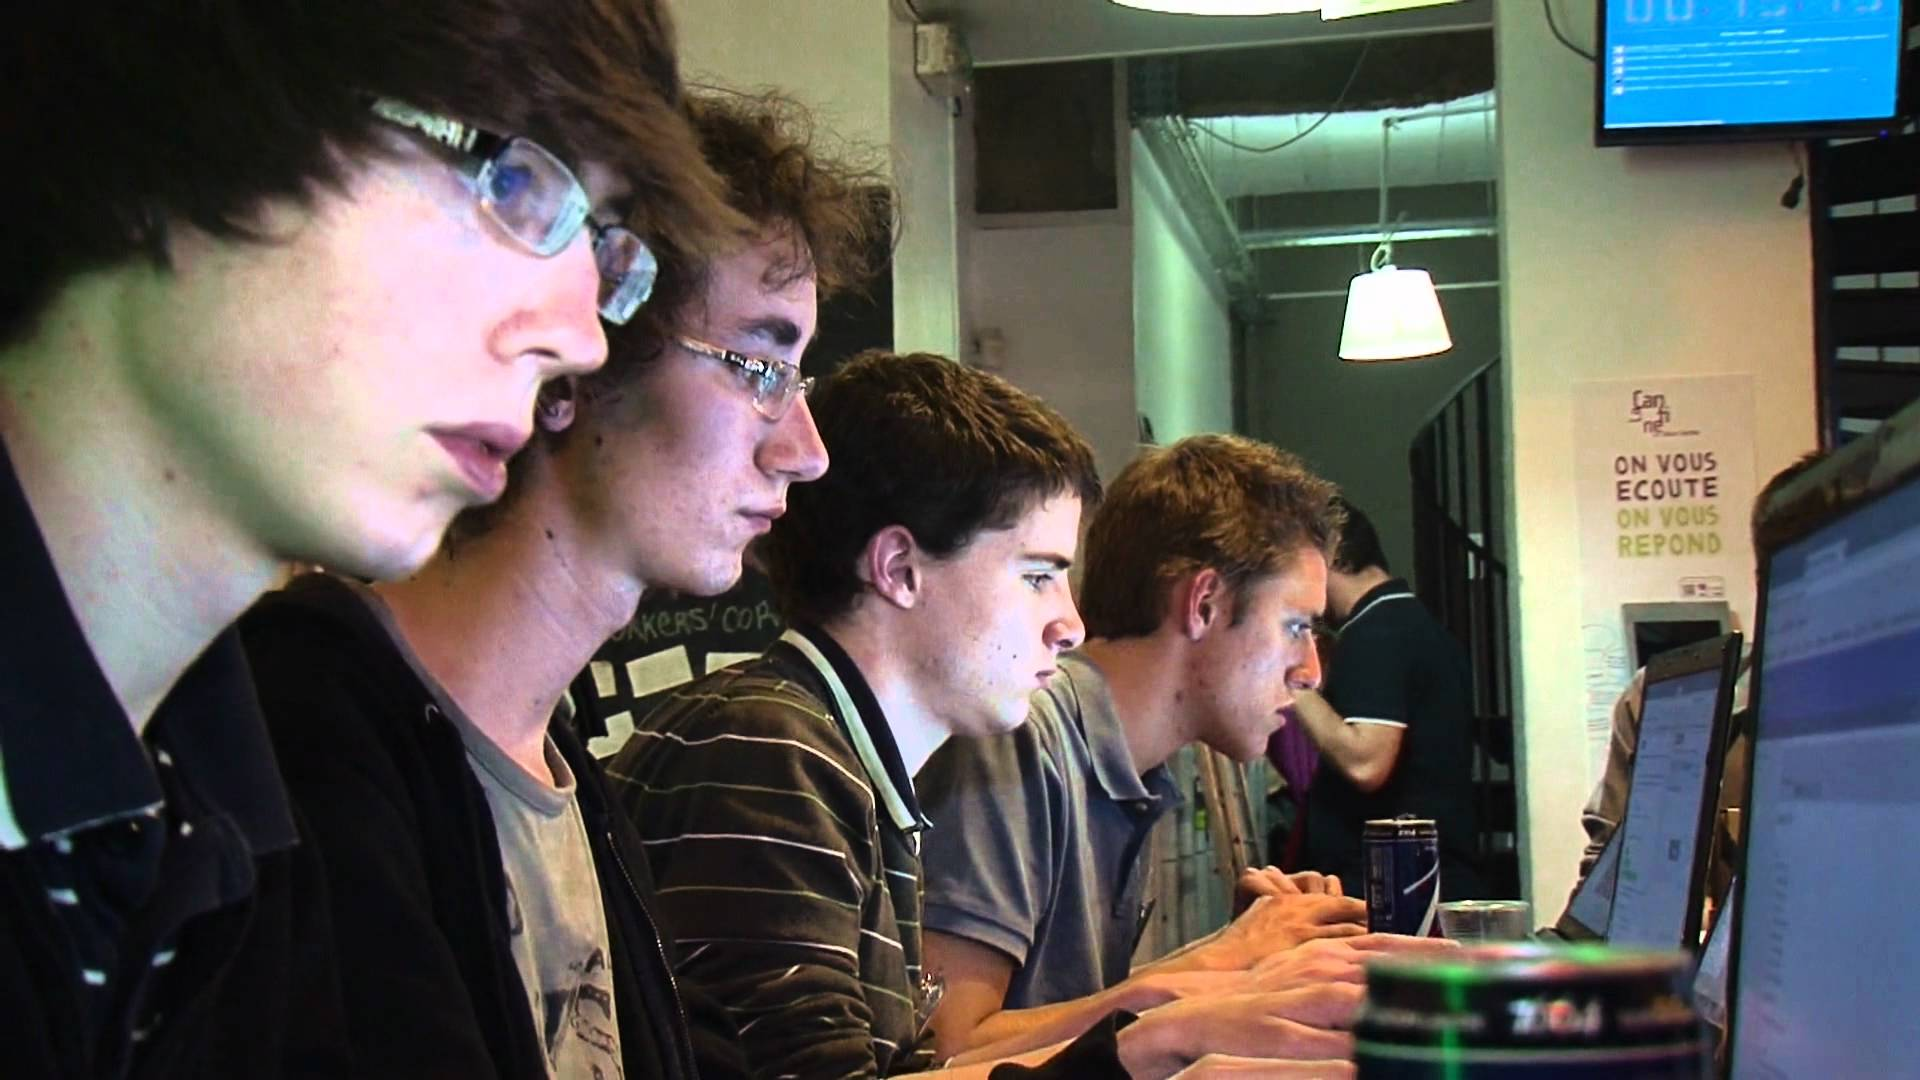
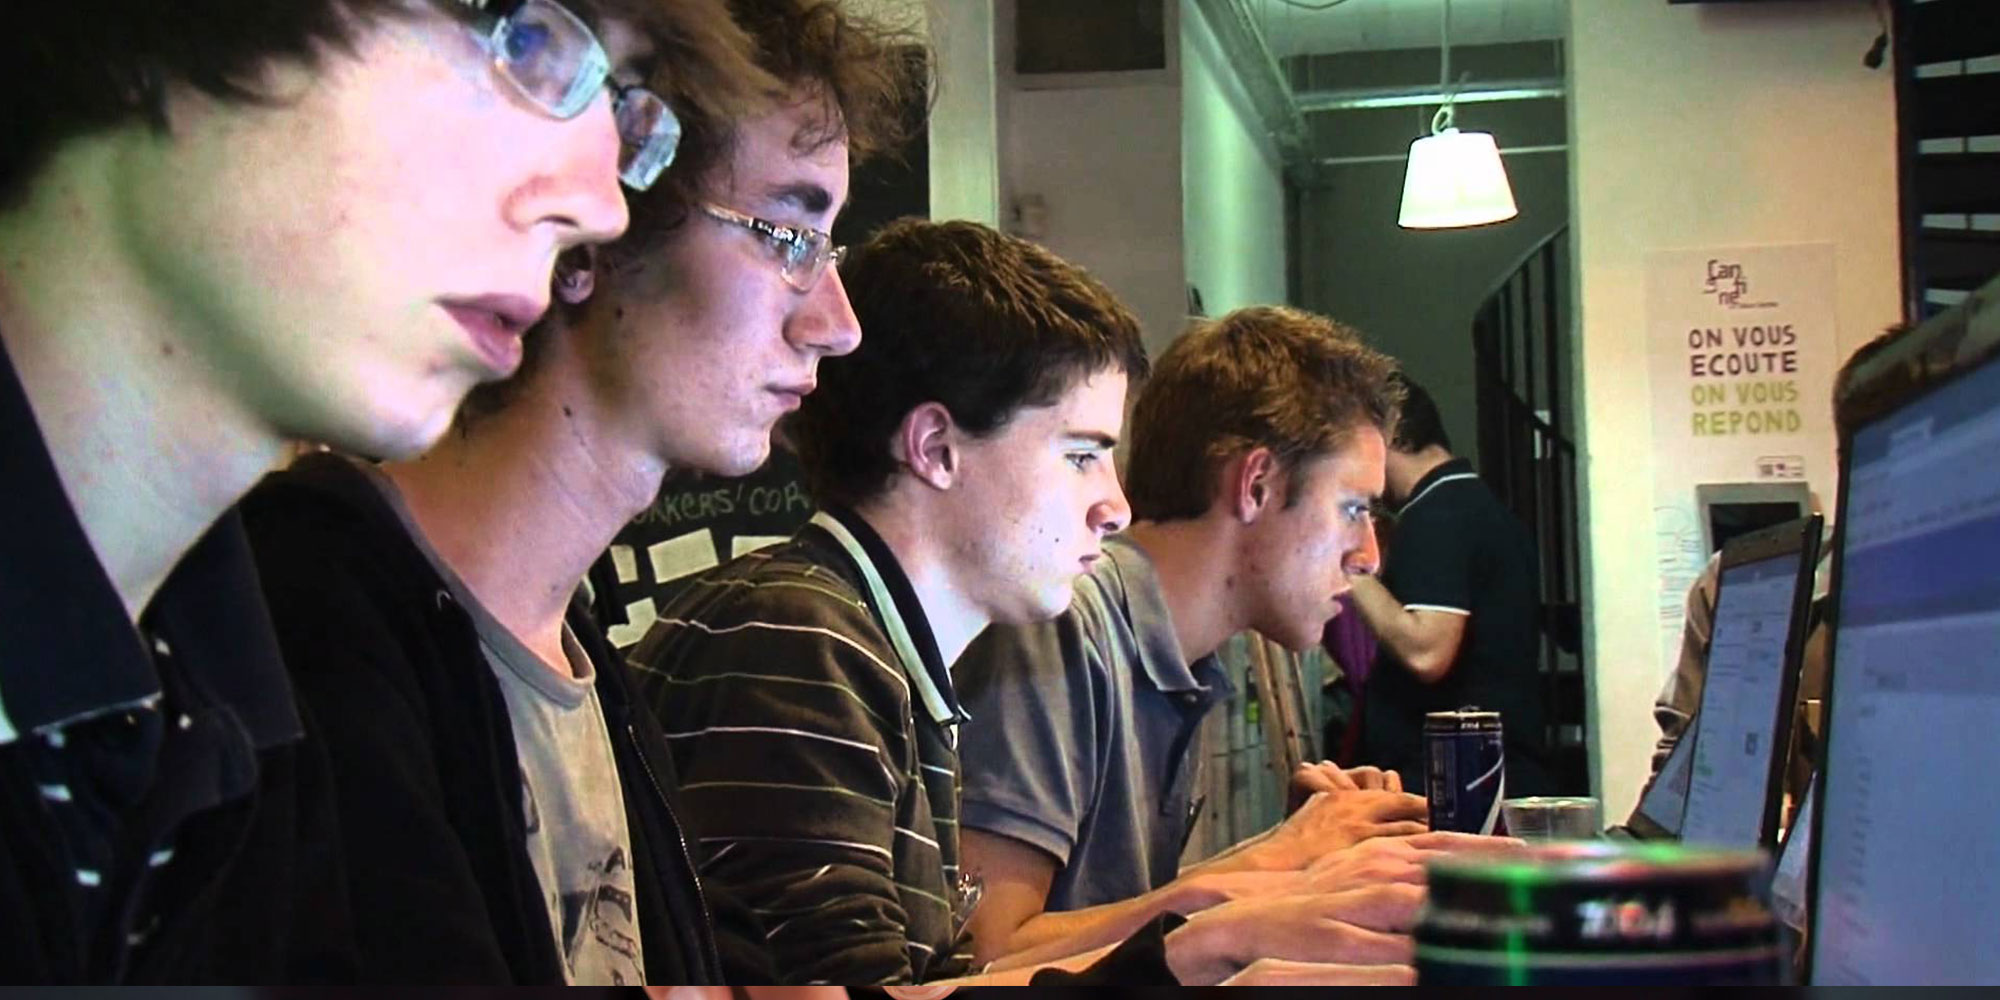
Ajout Background, btn FB, images a la meme dimension

diff --git a/web/css/style.css b/web/css/style.css
@@ -2,7 +2,8 @@ body {
     font-family: "Open Sans",sans-serif;
     font-weight: 300;
     background-color: #709095;
-    background-image: url("../images/bg.png");
+    background-image: url("../images/bg.jpg");
+    background-repeat: round;
 
 }
 
@@ -44,12 +45,16 @@ a:hover{
     color: white;
 }
 
+.fb-share-button{
+    margin-top: 10px;
+}
+
 .container-fluid {
   padding-right: 3%;
   padding-left: 3%;
-  margin-right: auto;
-  margin-left: auto;
+  margin: 2em auto;
   background-color: rgba(255, 255, 255, 0.5);
+  width: 90%;
 }
 
 
